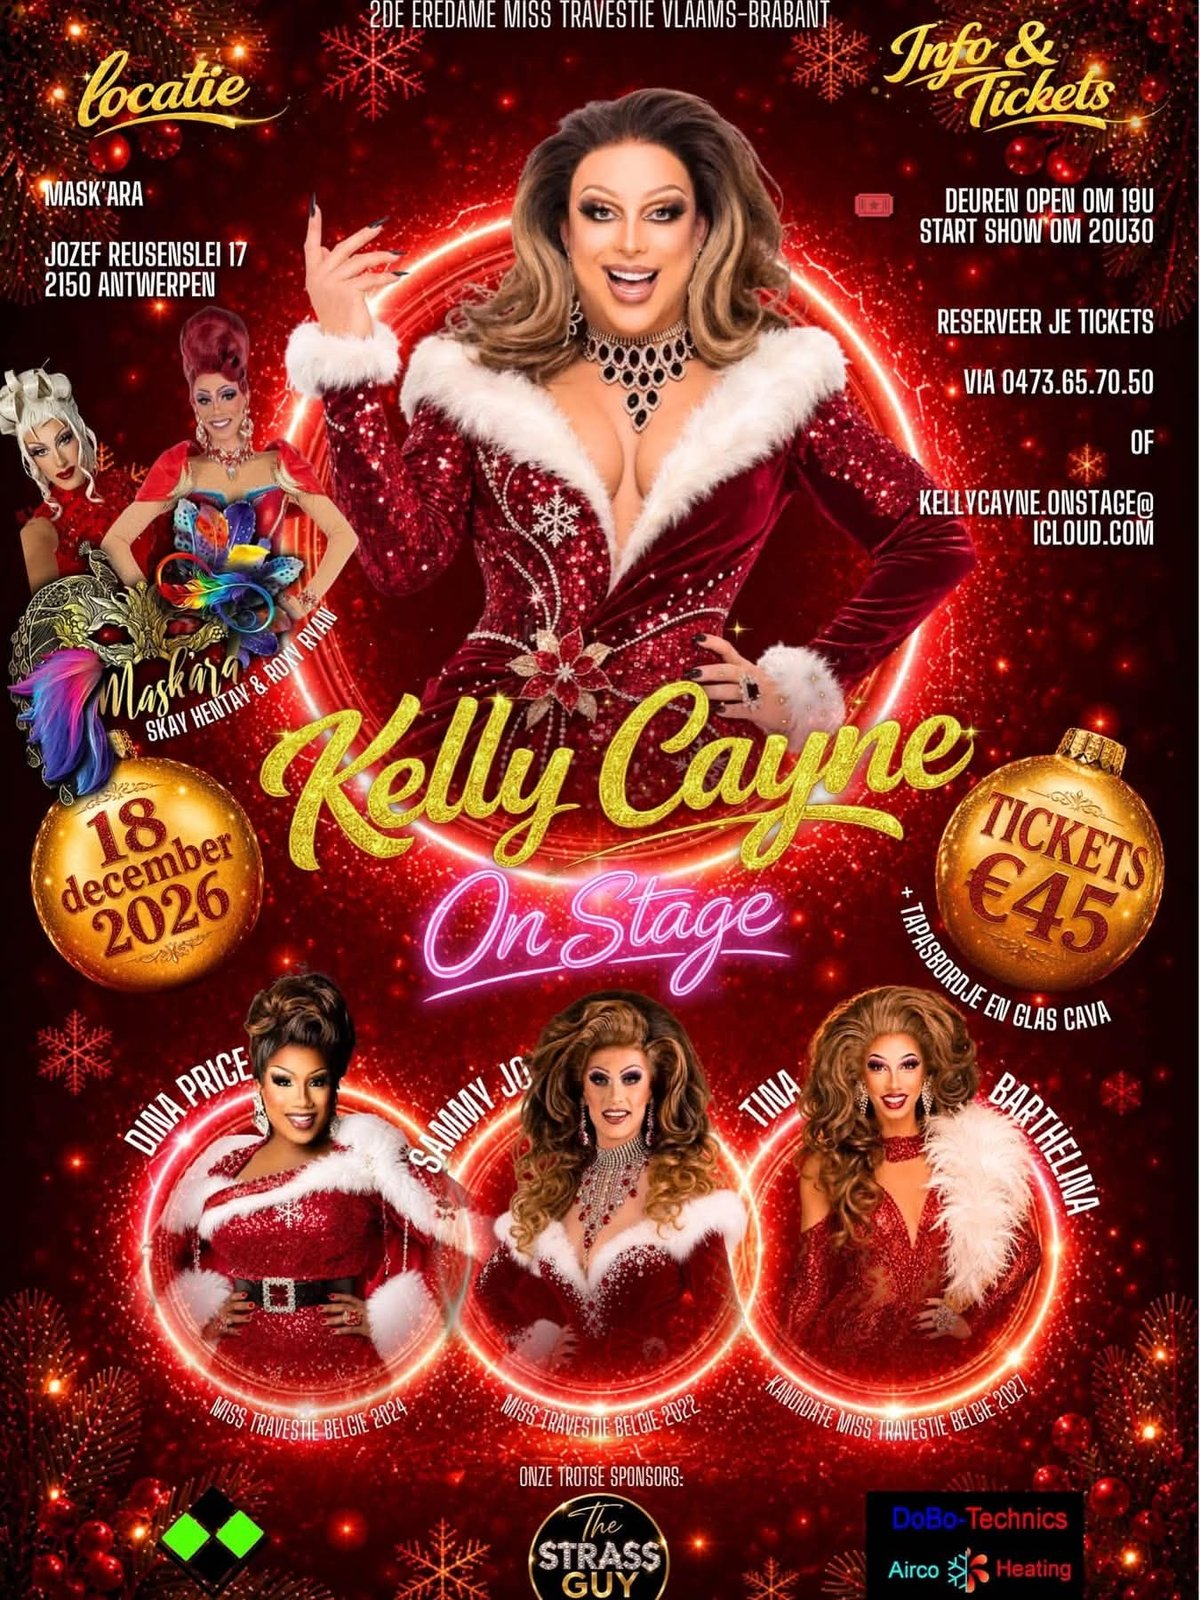
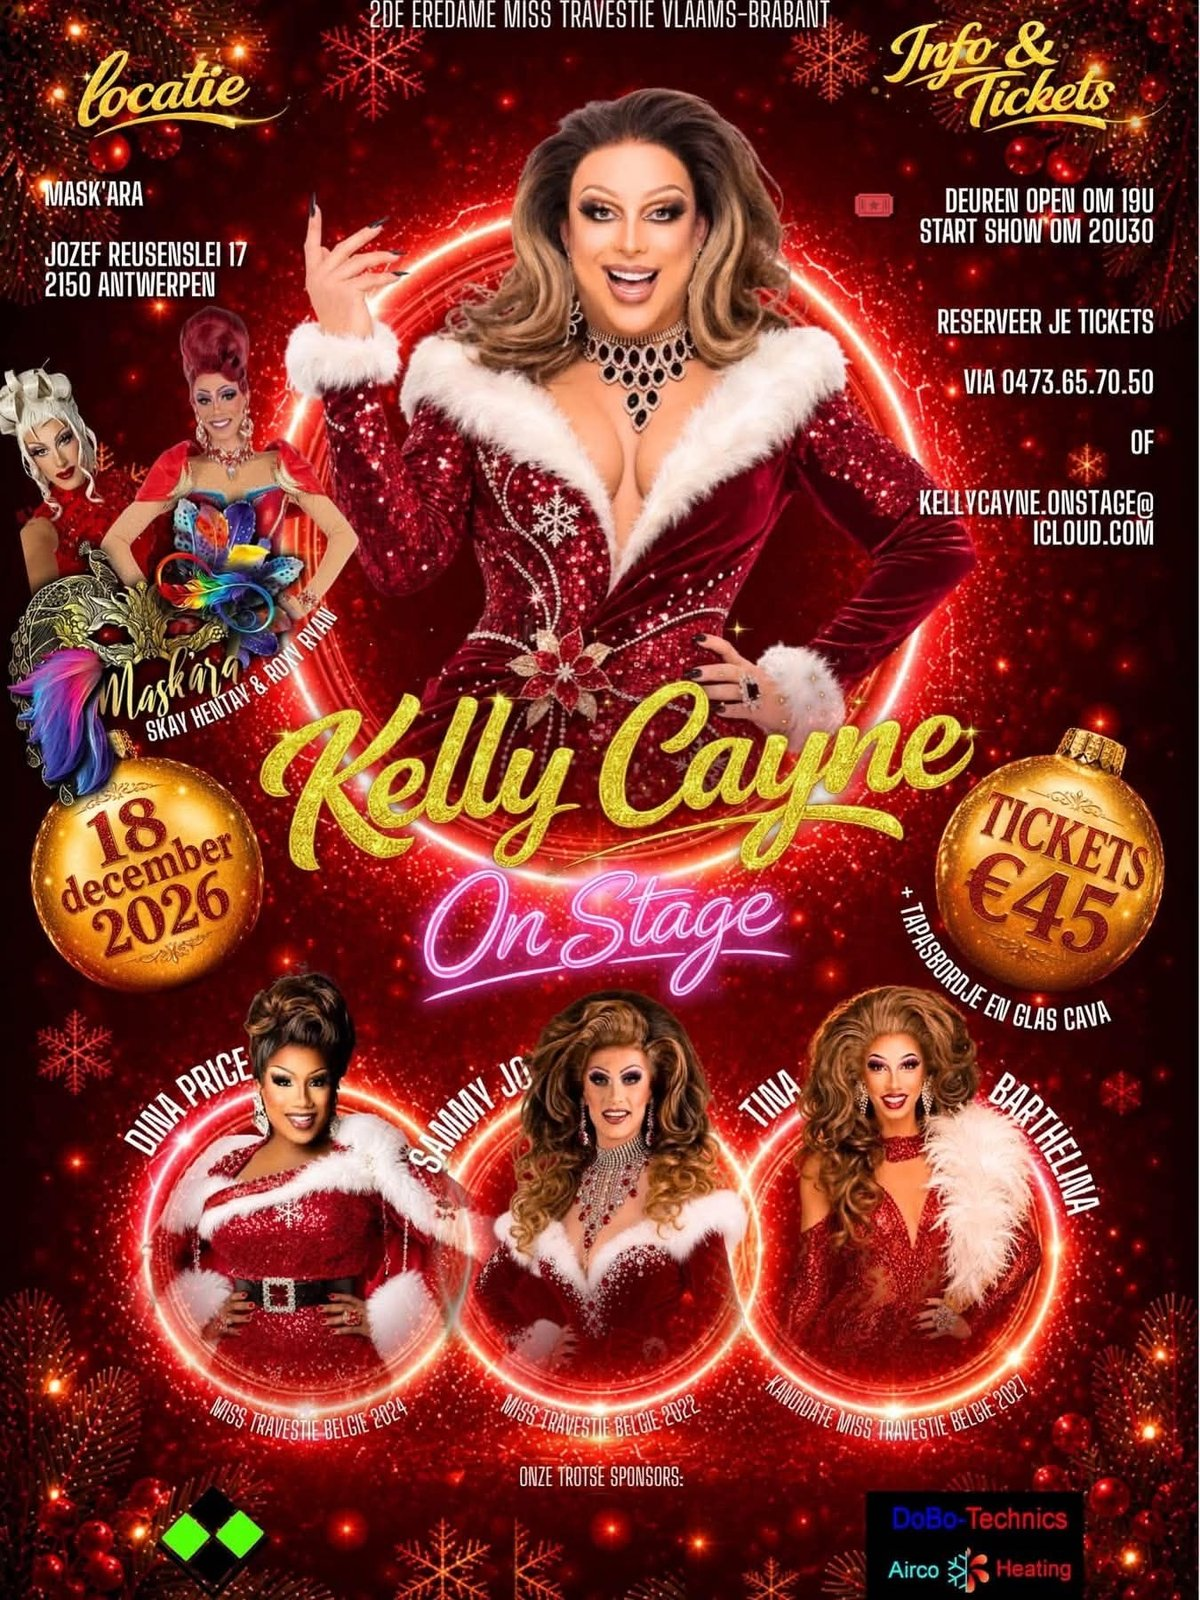
Affiche Kelly Cayne: sponsorlogo The Strass Guy verwijderd
Claude-Session: https://claude.ai/code/session_01V1qTes67sEukpbWHYRYb5q

Changed region(s): [[0.4008, 0.9062, 0.5858, 1.0]]

diff --git a/evenementen.html b/evenementen.html
@@ -151,7 +151,7 @@
       <div class="event-card" data-end-date="2026-12-18">
         <span class="event-date">Vrijdag 18 december 2026</span>
         <h3 class="event-title">Kelly Cayne On Stage: kerstshow @ Mask'ara</h3>
-        <div class="event-flyer"><img src="images/event-kellycayne-onstage.jpg" alt="Flyer Kelly Cayne On Stage op 18 december 2026 in Mask'ara met Dina Price, Sammy Jo, Tina Barthelina, Skay Hentay en Roxy Ryan" loading="lazy" decoding="async"></div>
+        <div class="event-flyer"><img src="images/event-kellycayne-onstage.jpg?v=2" alt="Flyer Kelly Cayne On Stage op 18 december 2026 in Mask'ara met Dina Price, Sammy Jo, Tina Barthelina, Skay Hentay en Roxy Ryan" loading="lazy" decoding="async"></div>
         <p class="event-desc">Kerstshow van <strong>Kelly Cayne</strong> (2de eredame Miss Travestie Vlaams-Brabant) met Dina Price, Sammy Jo en Tina Barthelina. Mask'ara is vertegenwoordigd door Skay Hentay en <strong>Roxy Ryan</strong>.</p>
         <div class="event-meta">
           <span class="event-meta-item"><span class="ic-gold"><svg viewBox="0 0 24 24" width="16" height="16" fill="none" stroke="currentColor" stroke-width="1.4" stroke-linecap="round" stroke-linejoin="round" aria-hidden="true"><path d="M12 21s7-7.2 7-12a7 7 0 0 0-14 0c0 4.8 7 12 7 12z"/><circle cx="12" cy="9" r="2.4"/></svg></span> Mask'ara, Jozef Reusenslei 17, 2150 Borsbeek</span>
